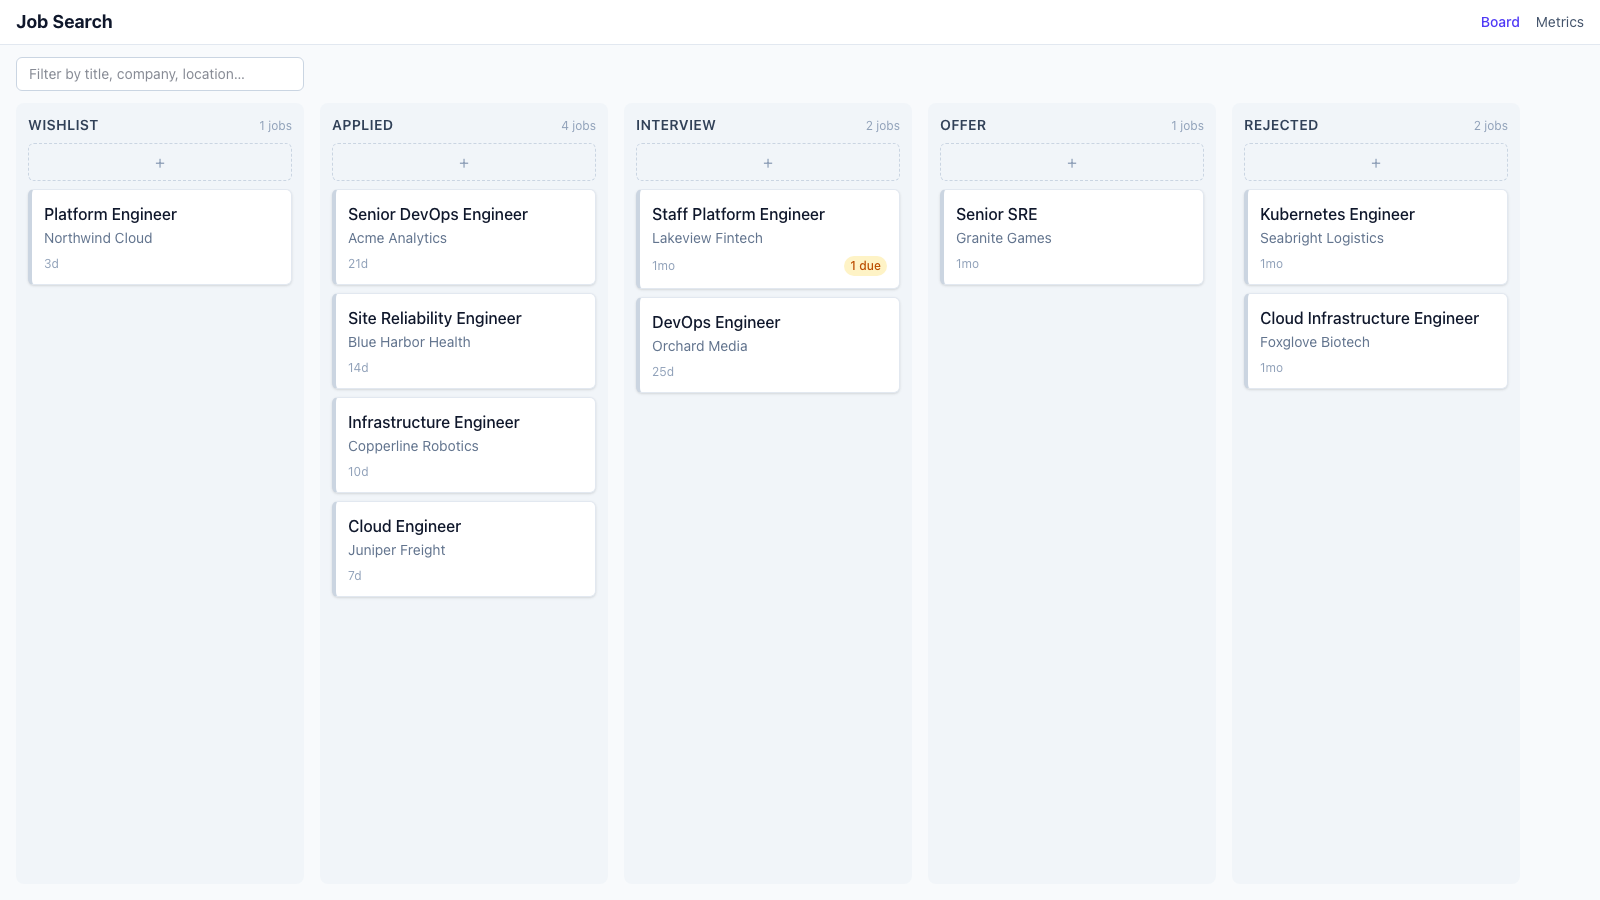
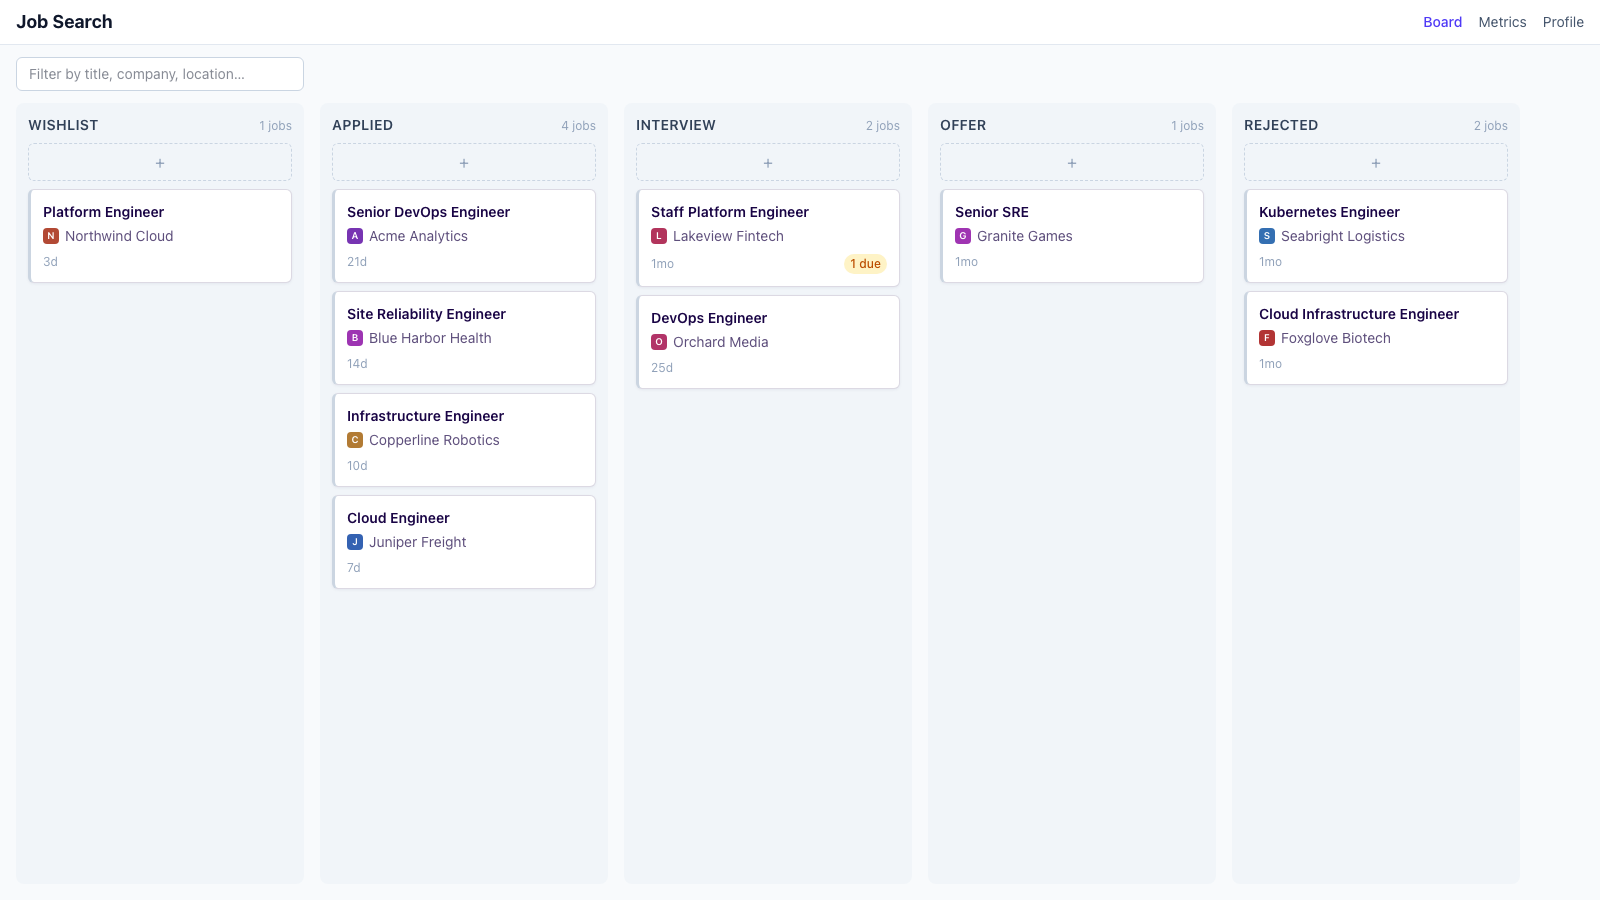
docs: rewrite readme as setup reference, fresh screenshot
Configuration and data-location tables, per-component setup (extension, MCP, importer) with paste-ready snippets, complete command list; screenshot retaken with the current UI on seed data.

diff --git a/README.md b/README.md
@@ -2,30 +2,36 @@
 
 Self-hosted job search tracker. A kanban pipeline for your applications
 (Wishlist, Applied, Interview, Offer, Rejected) with per-job activities, notes,
-contacts and documents, a metrics page, and an MCP server so you can read and
-update your board straight from an AI chat.
+contacts and documents, a metrics page, a Chrome extension for one-click job
+capture and application autofill, and an MCP server so you can read and update
+your board straight from an AI chat.
+
+Everything runs locally: one Node process, one SQLite file, no accounts, no
+cloud.
 
 ![Kanban board with demo data](docs/screenshot-board.png)
 
 ## Features
 
-- **Board** — five-stage kanban with drag and drop, per-column quick add, and
-  a text filter. Handles hundreds of cards per column.
-- **Job detail** — tabs for editable info, activities (with due dates and
-  overdue highlighting), markdown notes, linked contacts, document uploads,
-  and a company profile shared across that company's jobs.
+- **Board** — five-stage kanban with drag and drop, per-column quick add, a
+  text filter, company logos, and hover actions (open post, delete) on every
+  card. Handles hundreds of cards per column.
+- **Job detail** — tabs for editable info (including how the job originated:
+  applied, reachout, referral), activities with due dates and overdue
+  highlighting, editable stage history, markdown notes, linked contacts,
+  document uploads, and a company profile shared across that company's jobs.
 - **Metrics** — applications per week, stage conversion rates, response rate,
-  and average days in stage, all computed from real timestamps.
+  average days in stage, where jobs came from, and an interview-rounds funnel
+  (screening / hiring manager / technical / final). Everything recomputes live
+  from your data.
+- **Chrome extension** — capture postings from LinkedIn, Greenhouse, Lever,
+  Ashby, Workday, Indeed, or any page with JobPosting metadata via an in-page
+  panel with review-before-save, then autofill application forms from your
+  saved profile and resume.
+- **MCP server** — 11 tools to add jobs, move cards, log and retag interview
+  rounds, record sources, and pull metrics from a Claude (or any MCP) chat.
 - **Importer** — bring your history over from a hosted tracker's CSV export,
-  idempotently, with stage history preserved so metrics stay honest. See
-  [migration/README.md](migration/README.md).
-- **MCP server** — add jobs, move cards, log interviews, and pull metrics from
-  an AI chat. See [packages/mcp/README.md](packages/mcp/README.md).
-- **Chrome extension** — one-click capture of job postings from LinkedIn,
-  Greenhouse, Lever, Ashby, Workday, Indeed, and any page with JobPosting
-  metadata, with review before saving — plus one-click application autofill
-  from your saved profile and resume. See
-  [packages/extension/README.md](packages/extension/README.md).
+  idempotently, with stage history preserved so metrics stay honest.
 
 ## Quick start
 
@@ -39,36 +45,109 @@ npm run seed   # fictional demo data
 npm run dev
 ```
 
-Open http://localhost:3000.
+Open http://localhost:3000. To start from your real data instead of the demo,
+skip `npm run seed` and use the [importer](#importing-your-history).
 
-Or with Docker:
+### Docker
 
 ```sh
 docker compose up --build
 ```
 
-The SQLite database lives in `data/` and uploaded files in `uploads/`; both are
-mounted as volumes in the compose setup and are gitignored.
+Same app on :3000, with `data/` and `uploads/` mounted as volumes.
 
-## Layout
+## Where your data lives
 
+| What | Where | In git? |
+|---|---|---|
+| Board database (SQLite) | `data/jobtrack.db` | No — gitignored |
+| Uploaded documents and resume | `uploads/` | No — gitignored |
+| Raw tracker exports for import | `migration/raw/` | No — gitignored |
+
+Back up those two directories and you've backed up everything.
+
+## Configuration
+
+Defaults work out of the box; every knob is an environment variable:
+
+| Variable | Default | Purpose |
+|---|---|---|
+| `PORT` | `3000` | Web app port (`PORT=4000 npm run dev`) |
+| `JOBTRACK_DB` | `<repo>/data/jobtrack.db` | SQLite file path — point the app or MCP server at another database |
+| `JOBTRACK_UPLOADS` | `<repo>/uploads` | Where uploaded files are stored |
+
+Schema migrations are checked into `packages/core/drizzle/` and apply
+automatically whenever the app or MCP server opens the database.
+
+## Setting up each piece
+
+### Chrome extension (capture + autofill)
+
+```sh
+npm run build -w @jobtrack/extension
 ```
-apps/web            Next.js app (board UI, API routes)
-packages/core       schema, db client, service layer, seed
-packages/mcp        MCP server (stdio)
-packages/extension  Chrome extension (job capture + application autofill)
-migration/          CSV importer (raw exports go in migration/raw/, gitignored)
+
+Then `chrome://extensions` → enable **Developer mode** → **Load unpacked** →
+select `packages/extension/dist`. Click the toolbar button on any job posting
+to capture it; fill in your details and resume at
+http://localhost:3000/profile to enable **Autofill application**. Full
+walkthrough, supported sites, and how parsing works:
+[packages/extension/README.md](packages/extension/README.md).
+
+### MCP server (Claude integration)
+
+```sh
+npm run build -w @jobtrack/mcp
 ```
+
+Add to Claude Desktop's `claude_desktop_config.json` (or `claude mcp add` for
+Claude Code), with your absolute repo path:
+
+```json
+{
+  "mcpServers": {
+    "jobtrack": {
+      "command": "node",
+      "args": ["/absolute/path/to/job-board/packages/mcp/dist/index.js"]
+    }
+  }
+}
+```
+
+Restart the client and ask "what's on my job board?". Tool reference and a
+smoke-test checklist: [packages/mcp/README.md](packages/mcp/README.md).
+
+### Importing your history
+
+Drop your old tracker's CSV export into `migration/raw/`, preview with
+`npm run import -- --dry-run`, then `npm run import`. Re-running is safe
+(idempotent upserts). Details: [migration/README.md](migration/README.md).
 
 ## Commands
 
 | Command | What it does |
 |---|---|
 | `npm run dev` | Start the app on :3000 |
+| `npm run build` / `npm run start` | Production build / serve |
 | `npm run seed` | Reset the database with fictional demo data (refuses to wipe imported data without `--force`) |
 | `npm run import -- --dry-run` | Preview a CSV import from `migration/raw/` |
 | `npm run import` | Run the import |
-| `npm run lint` / `typecheck` / `test` | Checks |
+| `npm run build -w @jobtrack/mcp` | Build the MCP server to `packages/mcp/dist` |
+| `npm run build -w @jobtrack/extension` | Build the extension to `packages/extension/dist` |
+| `npm run lint` / `typecheck` / `test` | Checks across all workspaces |
+
+## Layout
+
+```
+apps/web            Next.js app (board UI, API routes)
+packages/core       schema, migrations, db client, service layer, seed
+packages/mcp        MCP server (stdio)
+packages/extension  Chrome extension (job capture + application autofill)
+migration/          CSV importer (raw exports go in migration/raw/, gitignored)
+```
+
+The web app and the MCP server share the same service layer and database, so
+a change made from a chat shows up on the board on refresh, and vice versa.
 
 ## License
 
